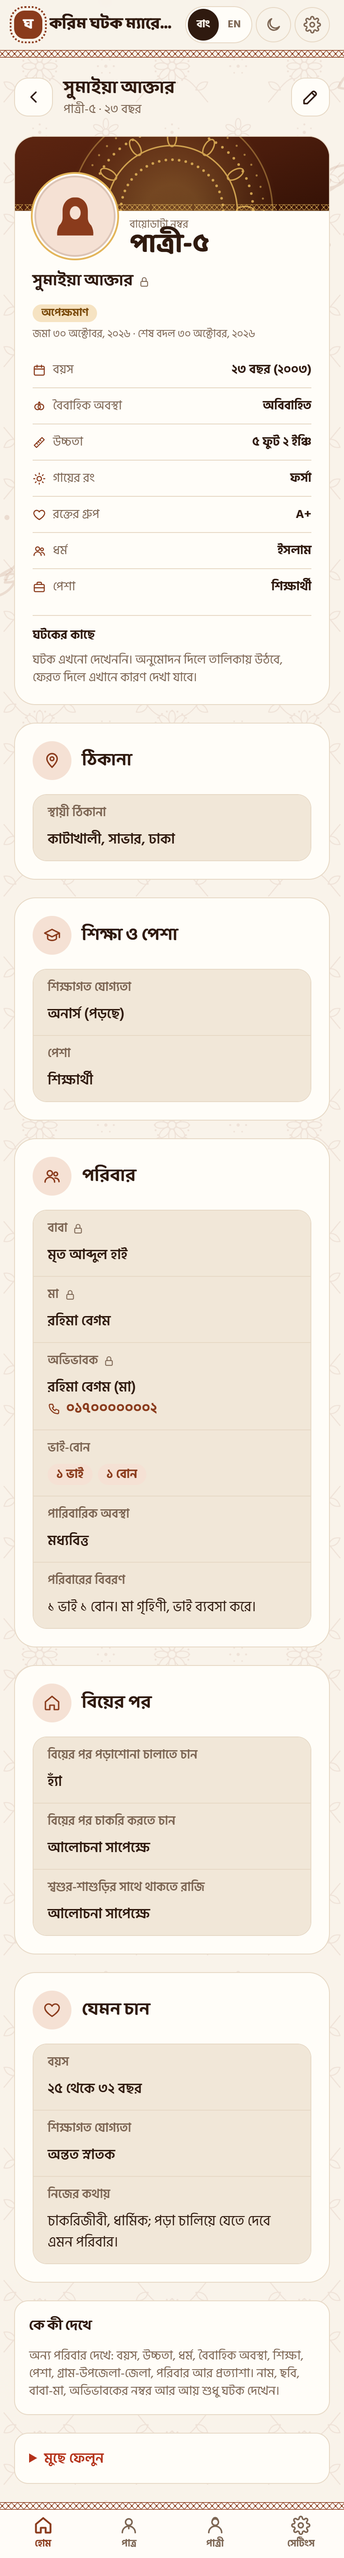
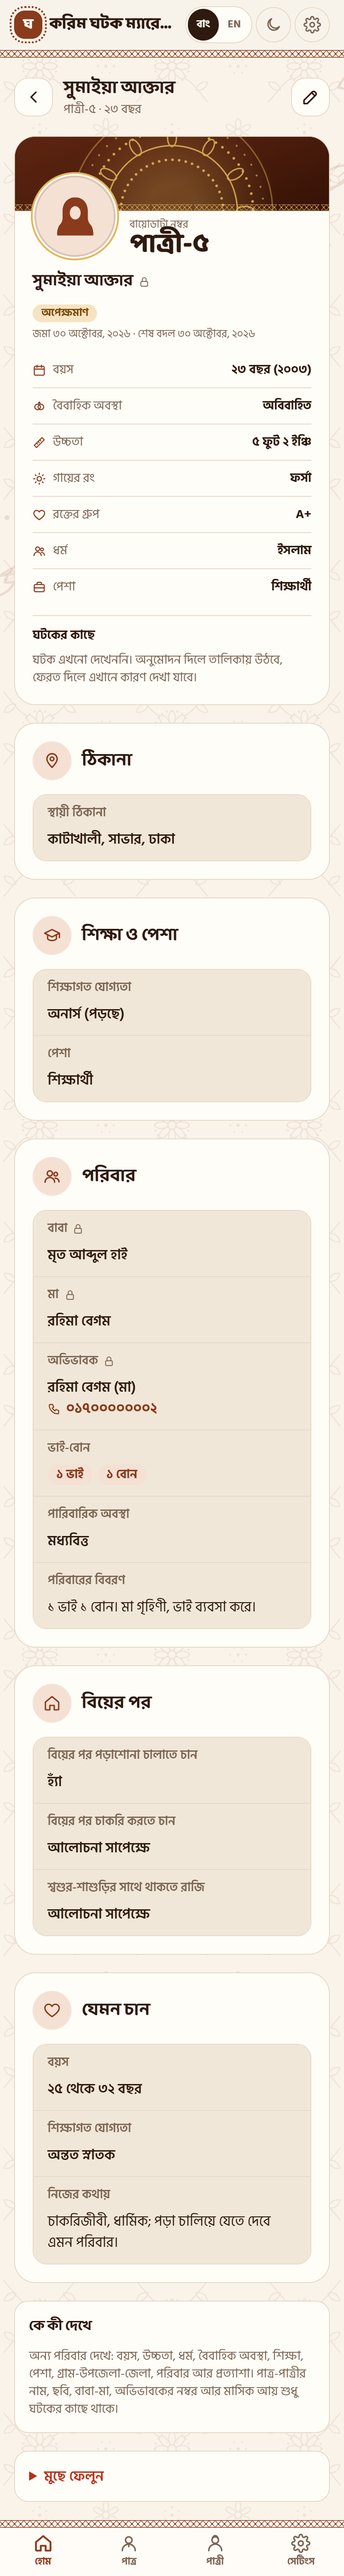
fix: "আয়" no longer reads as the ghotok's income
"…ফোন নম্বর আর আয় শুধু ঘটক জানেন" read as if the ghotok's own income
were meant. Every "who sees what" line now says whose details they are
("এই পাত্র বা পাত্রীর", "পাত্র-পাত্রীর"), says "মাসিক আয়", and ends
with "শুধু ঘটকের কাছে থাকে" so the two words no longer sit together.
English reads "the person's … monthly income" to match.

diff --git a/lib/i18n/dict.ts b/lib/i18n/dict.ts
@@ -219,7 +219,7 @@ export const bn = {
   "bv.ageFrom": "{n} বছর বা বেশি",
   "bv.ageTo": "{n} বছর পর্যন্ত",
   "bv.inOwnWords": "নিজের কথায়",
-  "bv.whoSees": "পরিবারের সম্মান আর নিরাপত্তার জন্য নাম, ছবি, বাবা-মা, ফোন নম্বর আর আয় শুধু ঘটক জানেন। দুই পরিবার রাজি হলে ঘটক এগুলো জানিয়ে দেবেন। এই পাতার সব তথ্য পরিবারটি নিজে লিখেছে, ঘটক দেখে তালিকায় তুলেছেন।",
+  "bv.whoSees": "পরিবারের সম্মান আর নিরাপত্তার জন্য এই পাত্র বা পাত্রীর নাম, ছবি, বাবা-মা, ফোন নম্বর আর মাসিক আয় শুধু ঘটকের কাছে থাকে। দুই পরিবার রাজি হলে ঘটক এগুলো জানিয়ে দেবেন। এই পাতার সব তথ্য পরিবারটি নিজে লিখেছে, ঘটক দেখে তালিকায় তুলেছেন।",
   "bv.whyHiddenTitle": "নাম আর ছবি কেন নেই?",
   "bv.likeTitle": "পছন্দ হলে ঘটককে জানান",
   "bv.likeText": "ফোনে শুধু বায়োডাটা নম্বরটা বলুন: {no}। {name} দুই পরিবারের সাথে কথা বলে বাকিটা এগিয়ে নেবেন।",
@@ -316,7 +316,7 @@ export const bn = {
   "me.contact": "যোগাযোগ",
   "me.contactText": "কোনো বায়োডাটা পছন্দ হলে নম্বরটি বলে ফোন করুন; নিজের বায়োডাটা দিতে সাহায্য লাগলেও।",
   "me.whoSees": "কে কী দেখে",
-  "me.whoSeesText": "অন্য পরিবার দেখে বয়স, উচ্চতা, ধর্ম, শিক্ষা, পেশা, গ্রাম-উপজেলা-জেলা, পরিবার আর প্রত্যাশা, সাথে বায়োডাটা নম্বর। নাম, ছবি, বাবা-মা, অভিভাবকের নম্বর আর আয় শুধু ঘটক দেখেন।",
+  "me.whoSeesText": "অন্য পরিবার দেখে বয়স, উচ্চতা, ধর্ম, শিক্ষা, পেশা, গ্রাম-উপজেলা-জেলা, পরিবার আর প্রত্যাশা, সাথে বায়োডাটা নম্বর। পাত্র-পাত্রীর নাম, ছবি, বাবা-মা, অভিভাবকের নম্বর আর মাসিক আয় শুধু ঘটকের কাছে থাকে।",
 
   // the biodata form
   "form.nameOf.patro": "পাত্রের নাম",
@@ -475,7 +475,7 @@ export const bn = {
   "aside.tip3": "কেমন পাত্র বা পাত্রী চান, খোলাখুলি লিখুন। ঘটক সেই মতো খুঁজবেন।",
   "aside.whoTitle": "কে কী দেখতে পাবে",
   "aside.seenList": "বয়স, উচ্চতা, গায়ের রং, ওজন, রক্তের গ্রুপ, ধর্ম, বৈবাহিক অবস্থা, শিক্ষা ও মাধ্যম, পেশা ও কর্মস্থল, গ্রাম-উপজেলা-জেলা, এখন থাকেন, ভাই-বোন, পারিবারিক অবস্থা, ধর্মীয় চর্চা, বিয়ের পর, পরিবার, প্রত্যাশা",
-  "aside.ghotokList": "নাম, ছবি, বাবা-মা, অভিভাবকের নম্বর, আয়",
+  "aside.ghotokList": "নাম, ছবি, বাবা-মা, অভিভাবকের নম্বর, পাত্র-পাত্রীর মাসিক আয়",
   "aside.whoText": "তালিকায় নাম থাকে না, থাকে শুধু একটা বায়োডাটা নম্বর। কারও পছন্দ হলে সে ঘটককে সেই নম্বর বলে।",
   "aside.stuckTitle": "বুঝতে সমস্যা হলে",
   "aside.stuckText": "ফোন করুন। {name} আপনার কথা শুনে নিজেই লিখে দেবেন।",
@@ -511,7 +511,7 @@ export const bn = {
   "mb.fixResubmit": "ঠিক করে আবার জমা দিন",
   "mb.listedText": "তালিকায় আছে: অন্য পরিবার নাম-ছবি ছাড়া বায়োডাটা নম্বর দিয়ে দেখছে। কিছু বদলালে ঘটক আবার দেখে তবেই তালিকায় যাবে।",
   "mb.whoSees": "কে কী দেখে",
-  "mb.whoSeesText": "অন্য পরিবার দেখে: বয়স, উচ্চতা, ধর্ম, বৈবাহিক অবস্থা, শিক্ষা, পেশা, গ্রাম-উপজেলা-জেলা, পরিবার আর প্রত্যাশা। নাম, ছবি, বাবা-মা, অভিভাবকের নম্বর আর আয় শুধু ঘটক দেখেন।",
+  "mb.whoSeesText": "অন্য পরিবার দেখে: বয়স, উচ্চতা, ধর্ম, বৈবাহিক অবস্থা, শিক্ষা, পেশা, গ্রাম-উপজেলা-জেলা, পরিবার আর প্রত্যাশা। পাত্র-পাত্রীর নাম, ছবি, বাবা-মা, অভিভাবকের নম্বর আর মাসিক আয় শুধু ঘটকের কাছে থাকে।",
   "mb.deleteConfirm": "হ্যাঁ, এই বায়োডাটা মুছে যাবে।",
   "mb.askGhotok": "তালিকায় থাকা বায়োডাটা সরাতে ঘটককে ফোন করুন।",
 
@@ -619,13 +619,13 @@ export const bn = {
   "ap.noteLabel": "পরিবারকে যা জানাতে চান",
   "ap.notePlaceholder": "যেমন: জন্ম সাল আর অভিভাবকের নম্বর ঠিক করে দিন",
   "share.title": "বায়োডাটা শেয়ার",
-  "share.onText": "এই লিংক যে পাবে সে লগইন ছাড়াই বায়োডাটা {no} পড়তে পারবে। নাম, ছবি, বাবা-মা, অভিভাবকের ফোন, আয় আর আপনার নোট লিংকে নেই।",
+  "share.onText": "এই লিংক যে পাবে সে লগইন ছাড়াই বায়োডাটা {no} পড়তে পারবে। পাত্র-পাত্রীর নাম, ছবি, বাবা-মা, অভিভাবকের ফোন, মাসিক আয় আর আপনার নোট লিংকে নেই।",
   "share.linkAria": "শেয়ার লিংক",
   "share.whatsapp": "হোয়াটসঅ্যাপে পাঠান",
   "share.whatsappText": "বায়োডাটা {no}: {link}",
   "share.off": "লিংক বন্ধ করুন",
   "share.offing": "বন্ধ হচ্ছে…",
-  "share.offText": "পরিবারকে দেখানোর জন্য একটা লিংক তৈরি করুন। লিংকে থাকবে বয়স, উচ্চতা, ধর্ম, বৈবাহিক অবস্থা, শিক্ষা, পেশা, গ্রাম-উপজেলা-জেলা, পরিবারের বিবরণ, প্রত্যাশা আর আপনার যোগাযোগ নম্বর। নাম, ছবি, বাবা-মা, অভিভাবকের ফোন, আয় আর নোট থাকবে না। যেকোনো সময় বন্ধ করা যায়।",
+  "share.offText": "পরিবারকে দেখানোর জন্য একটা লিংক তৈরি করুন। লিংকে থাকবে বয়স, উচ্চতা, ধর্ম, বৈবাহিক অবস্থা, শিক্ষা, পেশা, গ্রাম-উপজেলা-জেলা, পরিবারের বিবরণ, প্রত্যাশা আর আপনার যোগাযোগ নম্বর। পাত্র-পাত্রীর নাম, ছবি, বাবা-মা, অভিভাবকের ফোন, মাসিক আয় আর আপনার নোট থাকবে না। যেকোনো সময় বন্ধ করা যায়।",
   "share.create": "শেয়ার লিংক তৈরি করুন",
   "share.creating": "তৈরি হচ্ছে…",
 
@@ -1021,7 +1021,7 @@ export const en: Record<Key, string> = {
   "bv.ageFrom": "{n} years or more",
   "bv.ageTo": "Up to {n} years",
   "bv.inOwnWords": "In their own words",
-  "bv.whoSees": "To keep each family safe and respected, only the ghotok knows the name, photo, parents, phone number and income. Once both families agree, the ghotok will share them. Everything on this page the family wrote themselves, and the ghotok checked it before listing.",
+  "bv.whoSees": "To keep each family safe and respected, this person's name, photo, parents, phone number and monthly income stay with the ghotok. Once both families agree, the ghotok will share them. Everything on this page the family wrote themselves, and the ghotok checked it before listing.",
   "bv.whyHiddenTitle": "Why no name or photo?",
   "bv.likeTitle": "Like this one? Tell the ghotok",
   "bv.likeText": "Just say the biodata number on the phone: {no}. {name} will talk to both families and take it from there.",
@@ -1117,7 +1117,7 @@ export const en: Record<Key, string> = {
   "me.contact": "Contact",
   "me.contactText": "Like a biodata? Call and mention its number. Call too if you need help with your own.",
   "me.whoSees": "Who sees what",
-  "me.whoSeesText": "Other families see age, height, religion, education, work, village, upazila and district, family and expectations, with a biodata number. Only the ghotok sees the name, photo, parents, guardian's number and income.",
+  "me.whoSeesText": "Other families see age, height, religion, education, work, village, upazila and district, family and expectations, with a biodata number. The person's name, photo, parents, guardian's number and monthly income stay with the ghotok.",
 
   "form.nameOf.patro": "Groom's name",
   "form.nameOf.patri": "Bride's name",
@@ -1275,7 +1275,7 @@ export const en: Record<Key, string> = {
   "aside.tip3": "Say openly what kind of match you want. The ghotok searches accordingly.",
   "aside.whoTitle": "Who will see what",
   "aside.seenList": "Age, height, complexion, weight, blood group, religion, marital status, education and medium, work and workplace, village, upazila and district, where they live now, siblings, family's means, religious practice, after marriage, family, expectations",
-  "aside.ghotokList": "Name, photo, parents, guardian's number, income",
+  "aside.ghotokList": "Name, photo, parents, guardian's number, the person's monthly income",
   "aside.whoText": "The listing carries no name, only a biodata number. Someone who likes it tells the ghotok that number.",
   "aside.stuckTitle": "If you get stuck",
   "aside.stuckText": "Call. {name} will listen and fill it in for you.",
@@ -1309,7 +1309,7 @@ export const en: Record<Key, string> = {
   "mb.fixResubmit": "Fix and resubmit",
   "mb.listedText": "Listed: other families see it by biodata number, without the name or photo. If you change anything, the ghotok reviews it again before it is listed.",
   "mb.whoSees": "Who sees what",
-  "mb.whoSeesText": "Other families see age, height, religion, marital status, education, work, village, upazila and district, family and expectations. Only the ghotok sees the name, photo, parents, guardian's number and income.",
+  "mb.whoSeesText": "Other families see age, height, religion, marital status, education, work, village, upazila and district, family and expectations. The person's name, photo, parents, guardian's number and monthly income stay with the ghotok.",
   "mb.deleteConfirm": "Yes, delete this biodata.",
   "mb.askGhotok": "To remove a listed biodata, call the ghotok.",
 
@@ -1413,13 +1413,13 @@ export const en: Record<Key, string> = {
   "ap.noteLabel": "What to tell the family",
   "ap.notePlaceholder": "e.g. please correct the birth year and the guardian's number",
   "share.title": "Share the biodata",
-  "share.onText": "Anyone with this link can read biodata {no} without logging in. The name, photo, parents, guardian's phone, income and your notes are not in it.",
+  "share.onText": "Anyone with this link can read biodata {no} without logging in. The person's name, photo, parents, guardian's phone, monthly income and your notes are not in it.",
   "share.linkAria": "Share link",
   "share.whatsapp": "Send on WhatsApp",
   "share.whatsappText": "Biodata {no}: {link}",
   "share.off": "Switch the link off",
   "share.offing": "Switching off…",
-  "share.offText": "Create a link to show a family. It carries age, height, religion, marital status, education, work, village, upazila and district, family details, expectations and your contact number. Not the name, photo, parents, guardian's phone, income or notes. You can switch it off any time.",
+  "share.offText": "Create a link to show a family. It carries age, height, religion, marital status, education, work, village, upazila and district, family details, expectations and your contact number. Not the person's name, photo, parents, guardian's phone, monthly income or your notes. You can switch it off any time.",
   "share.create": "Create a share link",
   "share.creating": "Creating…",
 
